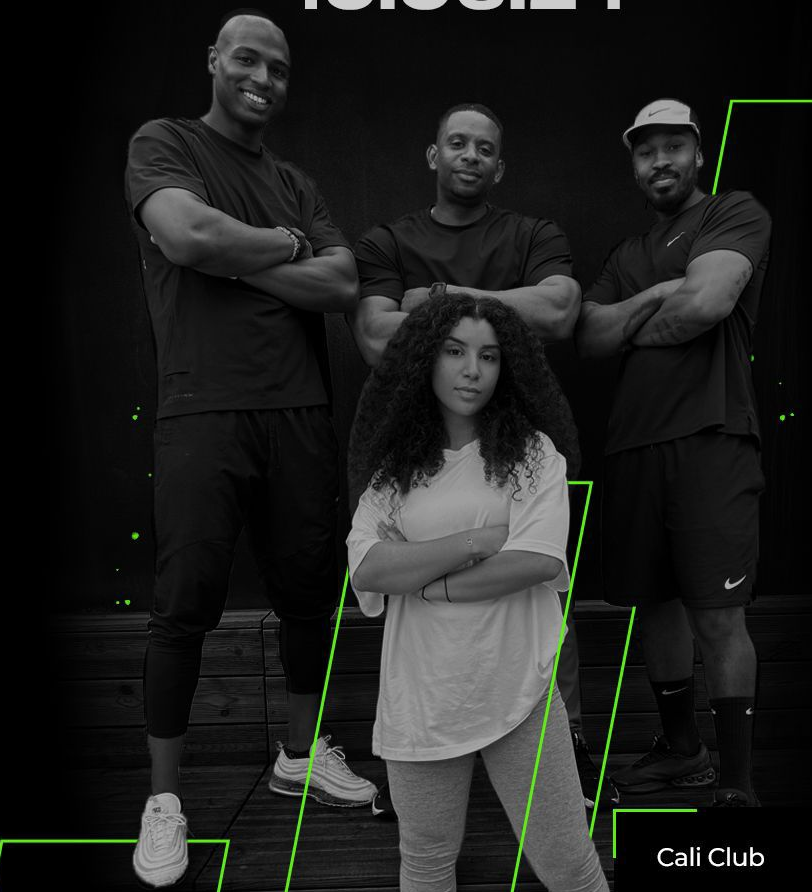
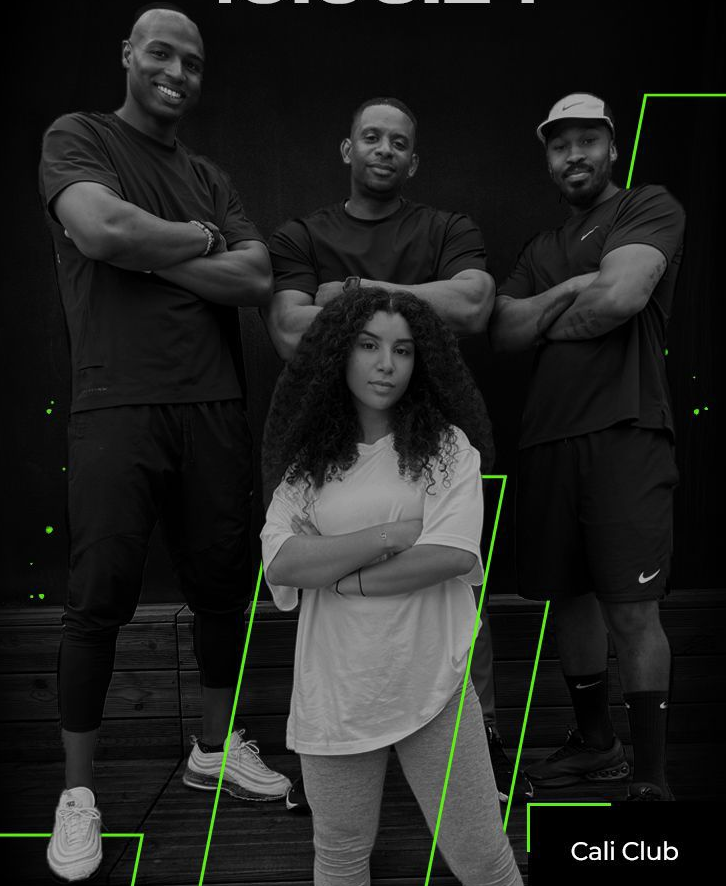
modified

diff --git a/index.html b/index.html
@@ -93,26 +93,27 @@
 		<div id="root" class="show-hidden">
 			<!-- Begin Menu Navigation
 		================================================== -->
-		<header id="header" class="navbar-toggleable-md navbar-light bg-white fixed-top mediumnavigation"></header>
+		<header id="header" class="navbar-toggleable-md navbar-light bg-white mediumnavigation"></header>
 		<!-- End Menu Navigation
 		================================================== -->
-		<div
-			class="site-content">
+		<div style="margin-top: 100px;">
 			<!-- Home Jumbotron
 			    ================================================== -->
 			<section class="intro">
 				<div class="intro-inner"></div>
-				<div class="wrapintro d-grid">
-					<h1>IN DA CLUB Training
+				<div class=" wrapintro container d-grid justify-content-center text-center">
+					<h1 class="text-center">
+						IN DA CLUB Training
 						
 					</h1>
-					<p >
+					<p class="text-center">
 						#quedukiff
 					</p>
 				</div>
+				
 			</section>
 
-			<div class="section layout_padding">
+			<div class="layout_padding">
 				<div class="container">
 
 					<div class="row justify-content-center">

diff --git a/static/css/theme.css b/static/css/theme.css
@@ -322,8 +322,11 @@ span.post-name a,span.post-read-more a:hover {
 	margin-bottom:1rem;
 }
 .intro {
-    background-image:url(../img/a1.png);
-    background-size:cover;
+    background-image:url(../img/a3.jpg);
+    background-size:contain;
+    background-position: center;
+    background-repeat: no-repeat;
+    background-color: var(--bg-blue);
     padding: 9rem 0;
     margin-top:-87px;
     margin-bottom:3.5rem;
@@ -366,7 +369,7 @@ span.post-name a,span.post-read-more a:hover {
     width: 700px;
     padding: 3rem;
     max-width: 90%;
-    margin: 0px auto;
+    /* margin: 0px auto; */
     text-align: center;
 }
 .wrapintro h1 {

diff --git a/static/css/main.css b/static/css/main.css
@@ -27,8 +27,8 @@
 }
 
 .layout_padding {
-    padding-top: 90px;
-    padding-bottom: 90px;
+	padding-top: 50px;
+	padding-bottom: 90px;
 }
 
 .blog_cont {

diff --git a/static/css/style.css b/static/css/style.css
@@ -196,7 +196,7 @@ button {
 }
 
 .layout_padding {
-	padding-top: 90px;
+	padding-top: 50px;
 	padding-bottom: 90px;
 }
 
